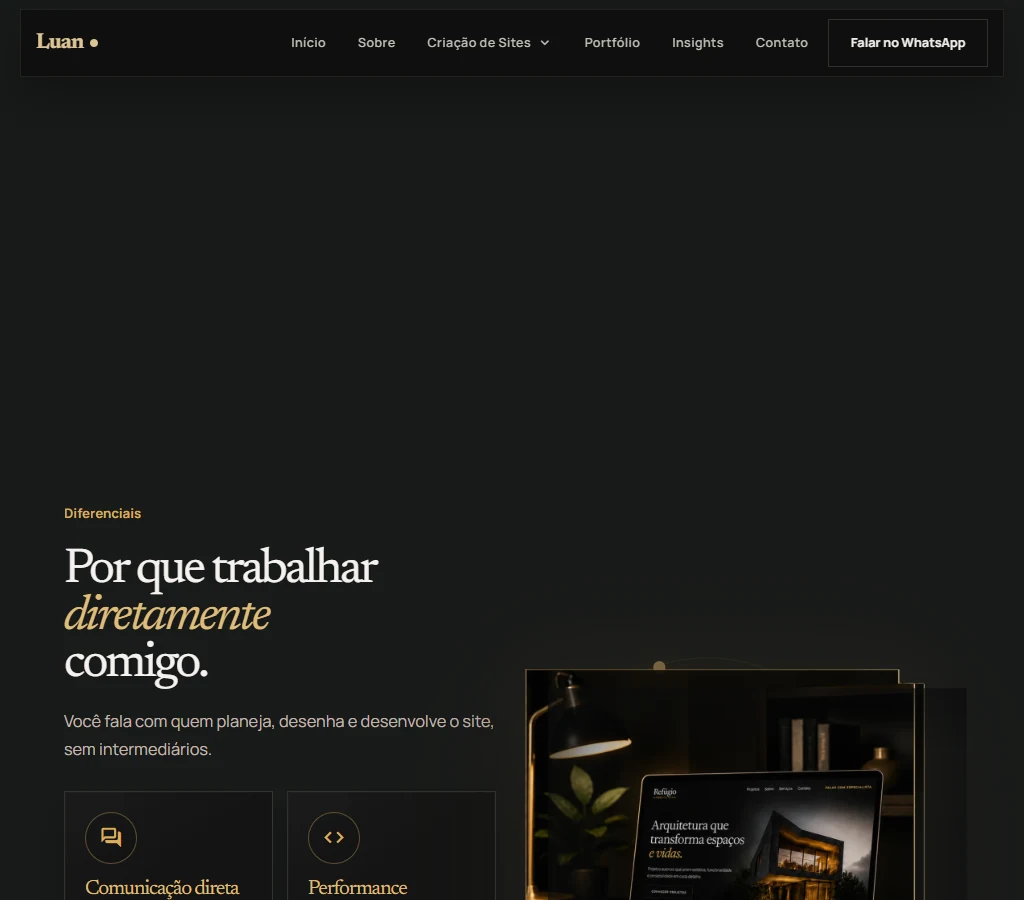
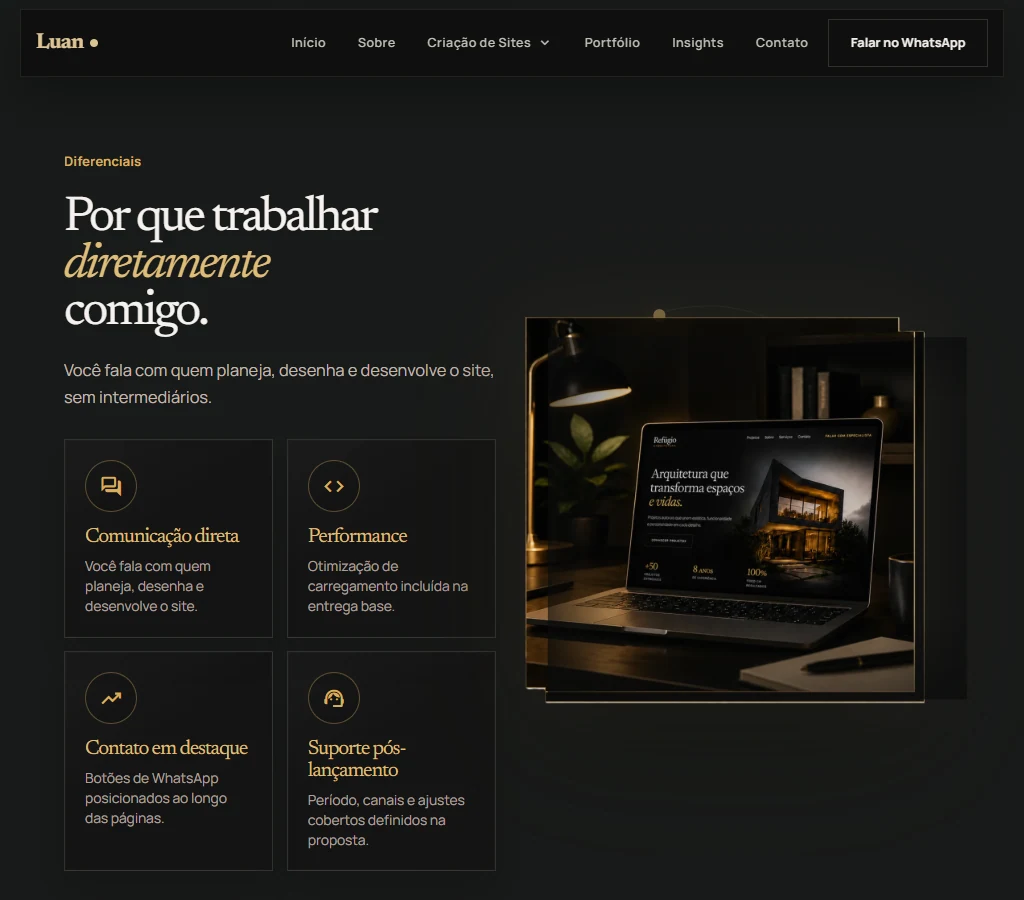
fix: remove empty hub band and verify decoded captures

diff --git a/docs/reviews/ui-polish/README.md b/docs/reviews/ui-polish/README.md
@@ -27,7 +27,7 @@ Representative views:
 
 All remaining route captures are in [screenshots](screenshots/).
 
-Tablet hub verification includes the complete page at [920px](screenshots/hub-full-920.webp) and [1024px](screenshots/hub-full-1024.webp), with individual captures below. Lazy-loaded images were loaded before capturing the complete page.
+Hub verification includes the complete page at [390px](screenshots/hub-full-390.webp), [920px](screenshots/hub-full-920.webp), [1024px](screenshots/hub-full-1024.webp) and [1440px](screenshots/hub-full-1440.webp), with individual tablet captures below. Every image was set to eager loading and decoded before the complete-page captures.
 
 | Section | 920px | 1024px |
 | --- | --- | --- |
@@ -39,5 +39,9 @@ Tablet hub verification includes the complete page at [920px](screenshots/hub-fu
 | Contact | [Screenshot](screenshots/hub-creation-contact-920.webp) | [Screenshot](screenshots/hub-creation-contact-1024.webp) |
 
 Validation: production build and post-build asset patch pass; 140 tests pass. All content routes have no horizontal page overflow or broken images at the screenshot widths. Checks at 320, 768 and 1024 pixels found no off-screen headings or primary controls. Additional hub checks at 920, 1024, 1100 and 1180 pixels found no section with internal horizontal overflow or visible content outside the viewport. Mobile menu, Escape focus restoration, viewport resize, Barba navigation and keyboard access to the final article contents link pass.
+
+The hub also has no empty element taller than 200px in the page flow at the four full-page capture widths. The distance from the Included section's bottom to the Differentials label measures 104–179px after removing a stale selector group and unused glow elements.
+
+The active council now consists of GPT Sol and Claude Opus. The user removed GPT Astra after round 6 because of quota usage. Its earlier votes remain historical results in the PR description.
 
 Council results are recorded in the pull request description. Round 1 scored 8.3, 7.5 and 8.1. A Sol-only second pass scored 9.0. Round 3 scored 8.8, 8.5 and 9.0. Round 4 scored 9.0 and 8.9; Astra's attempt hit a provider rate limit. This set includes full article-image proportions, a real project image for the performance article, smaller desktop segment headings, shared header states including all eight case studies, shorter segment breadcrumbs, aligned service feature titles and flat media framing. A Sol recheck was canceled before completion to include Claude's findings in the next full council pass. Gemini is excluded at the user's request.

diff --git a/design.md b/design.md
@@ -36,6 +36,7 @@ Use meaningful pt-BR alt text and consistent social-preview assets.
 ## Interaction And Accessibility
 
 - Check Portuguese headings and CTA labels at mobile widths for clipping and awkward wrapping.
+- Screenshot reviews should include complete pages and internal section bounds, since clipped sections can hide overflow. Wait for image decoding before full-page captures and check for tall empty elements in the page flow.
 - Preserve readable contrast, keyboard operation, focus-visible states, button semantics, dialog labels, and accessible close controls.
 - Hover, focus, and active states must communicate the same action.
 - Motion should clarify hierarchy, transitions, or feedback. Respect prefers-reduced-motion and the existing motion-enabled setup.
